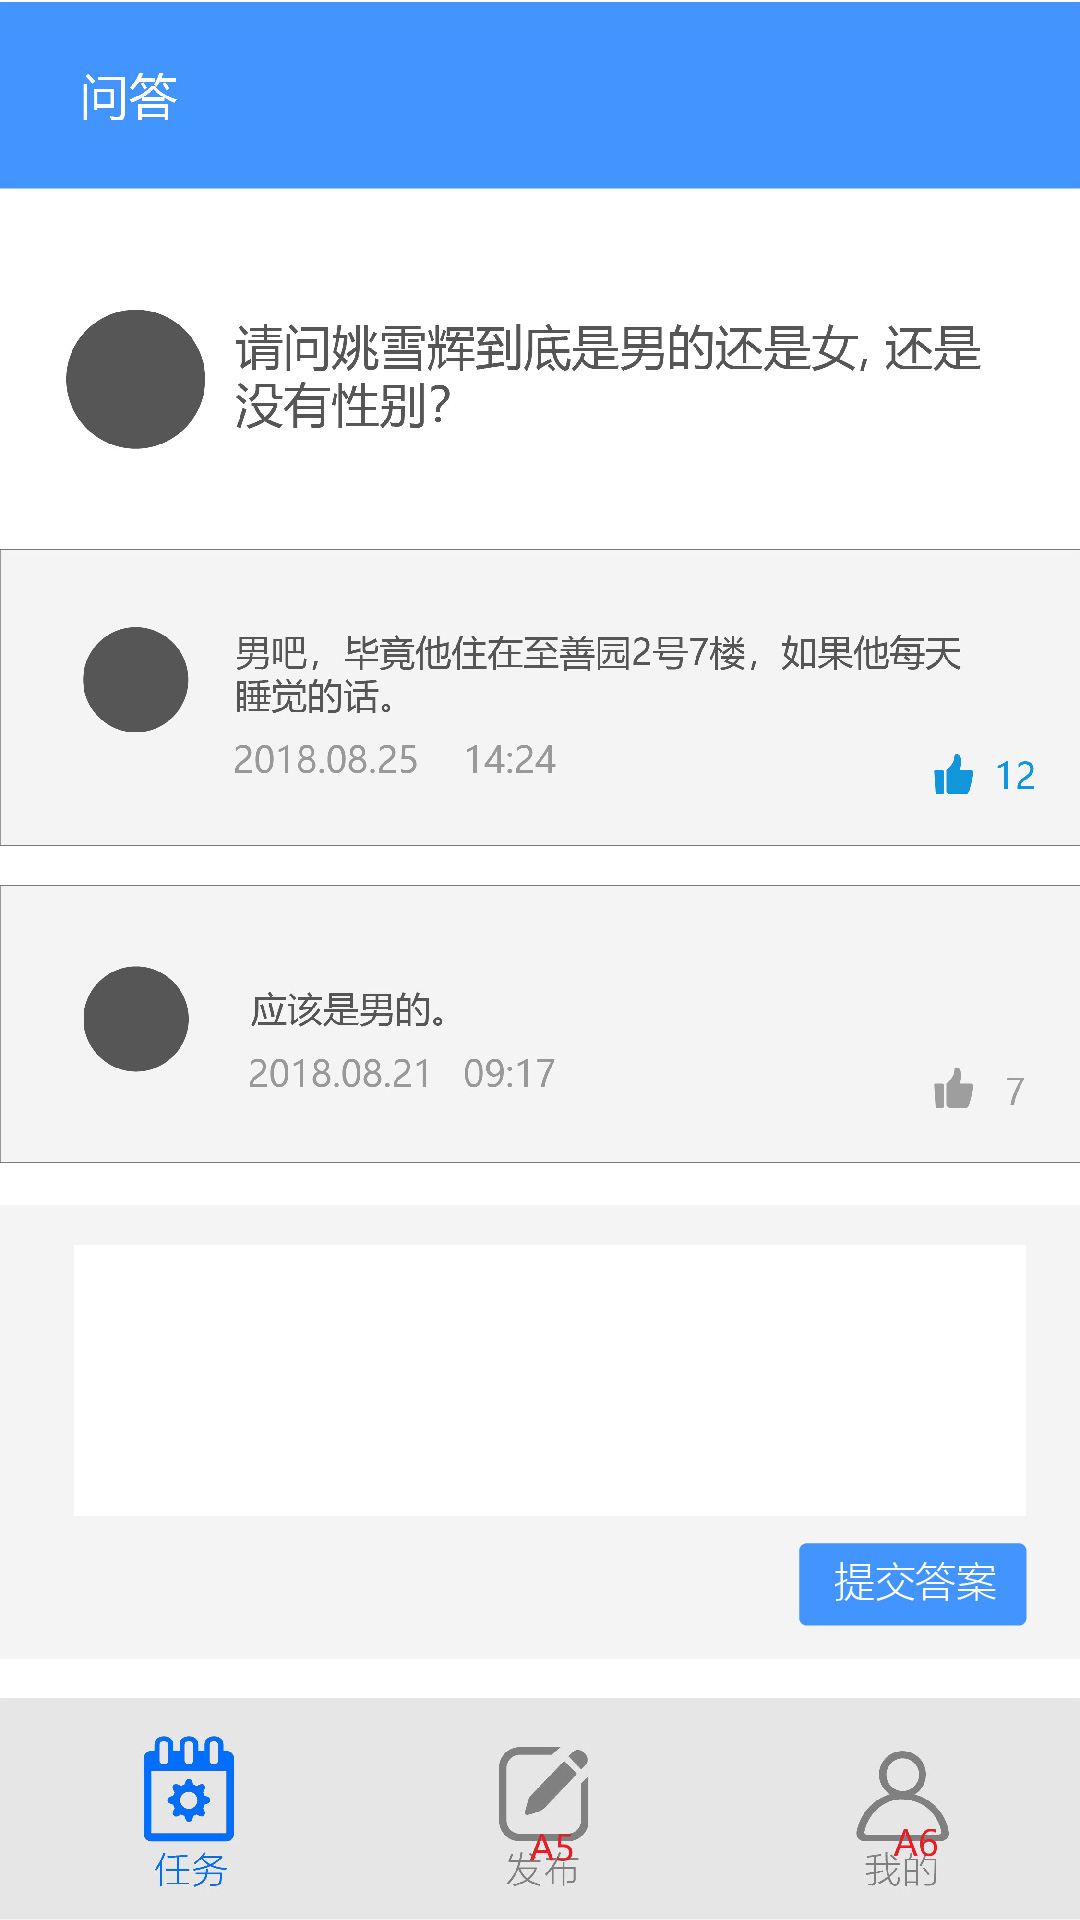
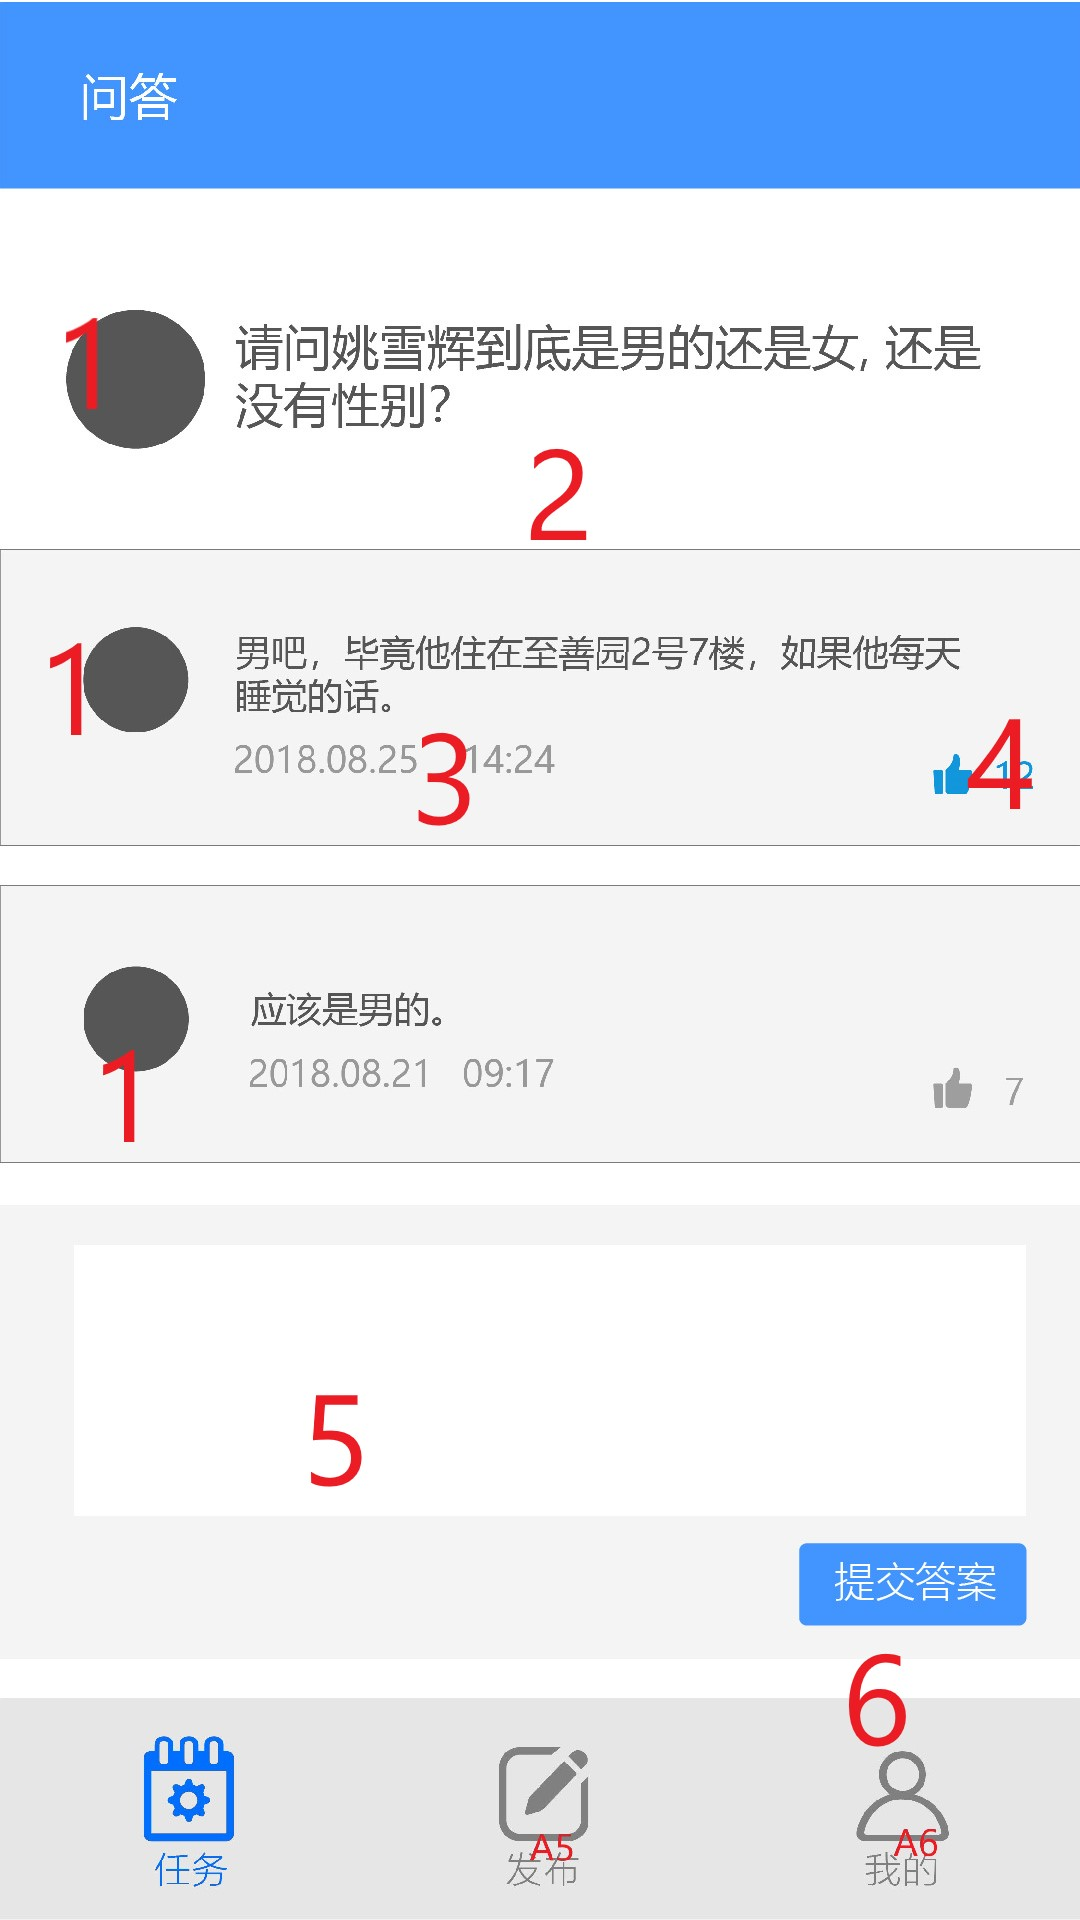
UI设计档案完成

diff --git a/UIDesign/UIStaticGraph/UI 说明.md b/UIDesign/UIStaticGraph/UI 说明.md
@@ -9,12 +9,20 @@
 - A2：点击区域会出现drop down，中有五个栏目：东校、南校、珠海、深圳、北校。默认是东校。点击drop down栏目中的任意一个则根据对应的选项刷新界面。
 - A3：点击类型后会出现drop down，中有四个栏目：全部、问卷、被试、兼职。默认是全部。点击drop down栏目中的任意一个则根据对应的选项刷新界面。
 - A4：点击排序（灰度比A2A3要高，且是粗体）后会出现drop down，中有四个栏目：时间顺序、时间逆序、佣金顺序、佣金逆序。默认是时间逆序
-- A5：点击发布进入C发布界面。但是不应该刷新（从发布界面点回任务界面，任务界面和发布界面内的内容应该不变）
-- A6：点击进入我的任务界面。
+- A5：点击发布进入Y发布界面。但是不应该刷新（从发布界面点回任务界面，任务界面和发布界面内的内容应该不变）
+- A6：点击进入我的任务Z界面。
 - A7：字符串匹配，点击可以搜索含有对应字符串的任务（搜索字段包括位置、标题、金额）
 - A8：点击可以重新根据当前A2A3A4的值生成任务列表。
 ### X2：问答的回答与浏览界面
+
 ![](X2问答的回答与浏览界面.jpg)
+
+- 1：头像，用一个固定的图案代替。（技术限制无法获得回答用户的微信头像）
+- 2：问题的内容和描述
+- 3：该用户的回答。
+- 4 ：点击可以给该回答带来赞。高赞回答会被系统放在更靠前的地方。已经点过的赞图标会变成灰色，再次点击则会取消点赞。
+- 5 ：回答栏。在里面可以输入回答。在任何时候如果重新点开问题，如果之前回答过这个问题，则此处自动变成之前回答的内容，用户修改并更新答案。
+- 6：提交答案：如果点击，则提交问答，并刷新界面。
 ### X3：问卷的填写界面
 ![](X3问卷的填写界面.jpg)
 - B1：返回。返回A任务列表界面。当前界面将不会保存
@@ -29,11 +37,18 @@
 ### Y1发布的两个选择界面
 ![](Y1 发布的两个选择界面.jpg)
 
+- 1：点击进入y3发布问卷的编辑界面
+- 2：点击进入Y2发布问答的编辑界面
 ### Y2发布问答的编辑界面
 ![](Y2发布问答的编辑界面.jpg)
 
+- 1：填写问题的标题即问题（案例：如何安装visualstudio2017？）
+- 2：描述问题的具体信息（案例：我电脑内存只有2g，一打开安装包就会卡崩）
+- 3：点击可以发布问题，跳转至X任务浏览界面。
 ### Y3发布问卷的编辑界面
 ![](Y3发布问卷的编辑界面.jpg)
+
+![](Y4发布问卷的编辑界面.jpg)
 
 - C1：点击可以输入文字，最多不能超过20个汉字。（直接用库了）
 - C2：点击可以输入文字。（用库）文本溢出部分使用Scroll的交互方法。
@@ -42,10 +57,9 @@
 - C5：点击可以选择校区：东校、南校、北校、珠海、深圳
 - C6：弹出系统时间选择。这是任务的截止期限
 - C7：向服务器提交任务表单
-![](Y4发布问卷的编辑界面.jpg)
-
-## Z发布与编辑界面
-
+- 1：点击可以在问卷中添加一个问题或者删除当前问题
+- 2：可以增加或删除一个选项
+（这一部分程序逻辑部分比较复杂，涉及到页面跳转和编辑功能，所以只提供逻辑上的样例示范，对具体设计不做要求）
 
 ## Z我的任务界面
 
@@ -53,32 +67,42 @@
 ![](Z1我的信息-界面.jpg)
 
 这个界面可以对已经发布的问卷和问答进行管理，还可以查看到开发团队和运营团队的联系方式，以及修改个人信息
+- 1：我的头像，通过微信API自动获取
+- 2：我的回答，点击可以出现我的所有回答，类似于Z4（不赘述了）
+- 3：问题管理，可以管理我的所有发布的问题，类似于Z6
+- 4：问卷管理，点击跳转至Z6
+- 5：我的钱包，点击跳转至Z4
+- 6：关于我们，点击跳转至Z3
+- 7：客服中心，点击跳转至Z5
+- 8：个人设置，点击跳转至Z2
 ### Z2 我的个人设置界面
 ![](Z2我的个人设置界面.jpg)
 
-- ：用户的姓名信息
-- ： 我的学号
--：我的邮箱信息
-
+- 1：用户的姓名信息
+- 2：用户的学号
+- 3：用户的邮箱信息
+- 4：点击可以保存更改，但不需要跳转
+- 5：点击可以返回界面Z1
 ### Z3 制作者声明界面
 ![](Z3制作者声明.jpg)
 
--：开发团队的学号和姓名
+开发团队的学号和姓名，方便老师批阅
+
 ### Z4 我的钱包界面
 
 ![](Z4我的钱包界面.jpg)
 
--：返回到C1界面
--：曾经填写过的问卷和问卷对应赚到的钱
+- 1： 显示之前填过的问卷名称，并显示赚到的钱
+- 2： 对所有的结果累加得到赚到的总钱数
 ### Z5 客服中心界面
 
 ![](Z5客服中心界面.jpg)
 
-- ：客服的联系方式。
+客服的联系方式。
 ### Z6已完成问卷的下载界面
 ![](Z6已完成问卷的下载界面.jpg)
 
-- ：点击可以导出该数据为excel
+- 1：点击可以导出该数据为excel
 
 
 标题栏蓝色：#66 148 255  #42 94 FF
